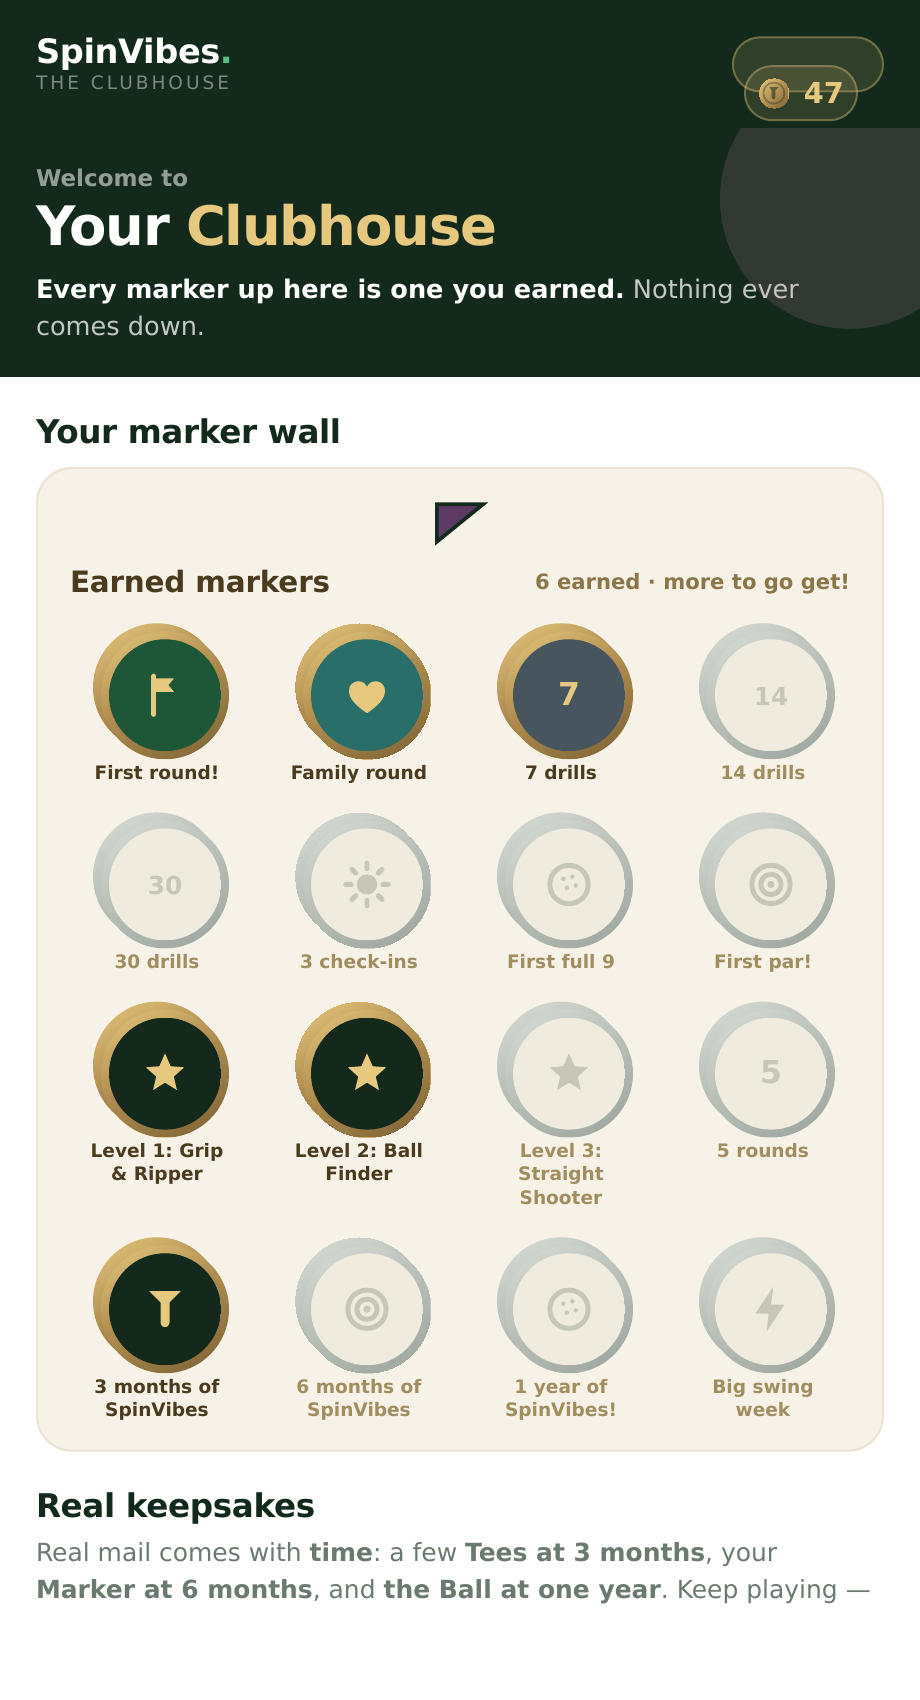
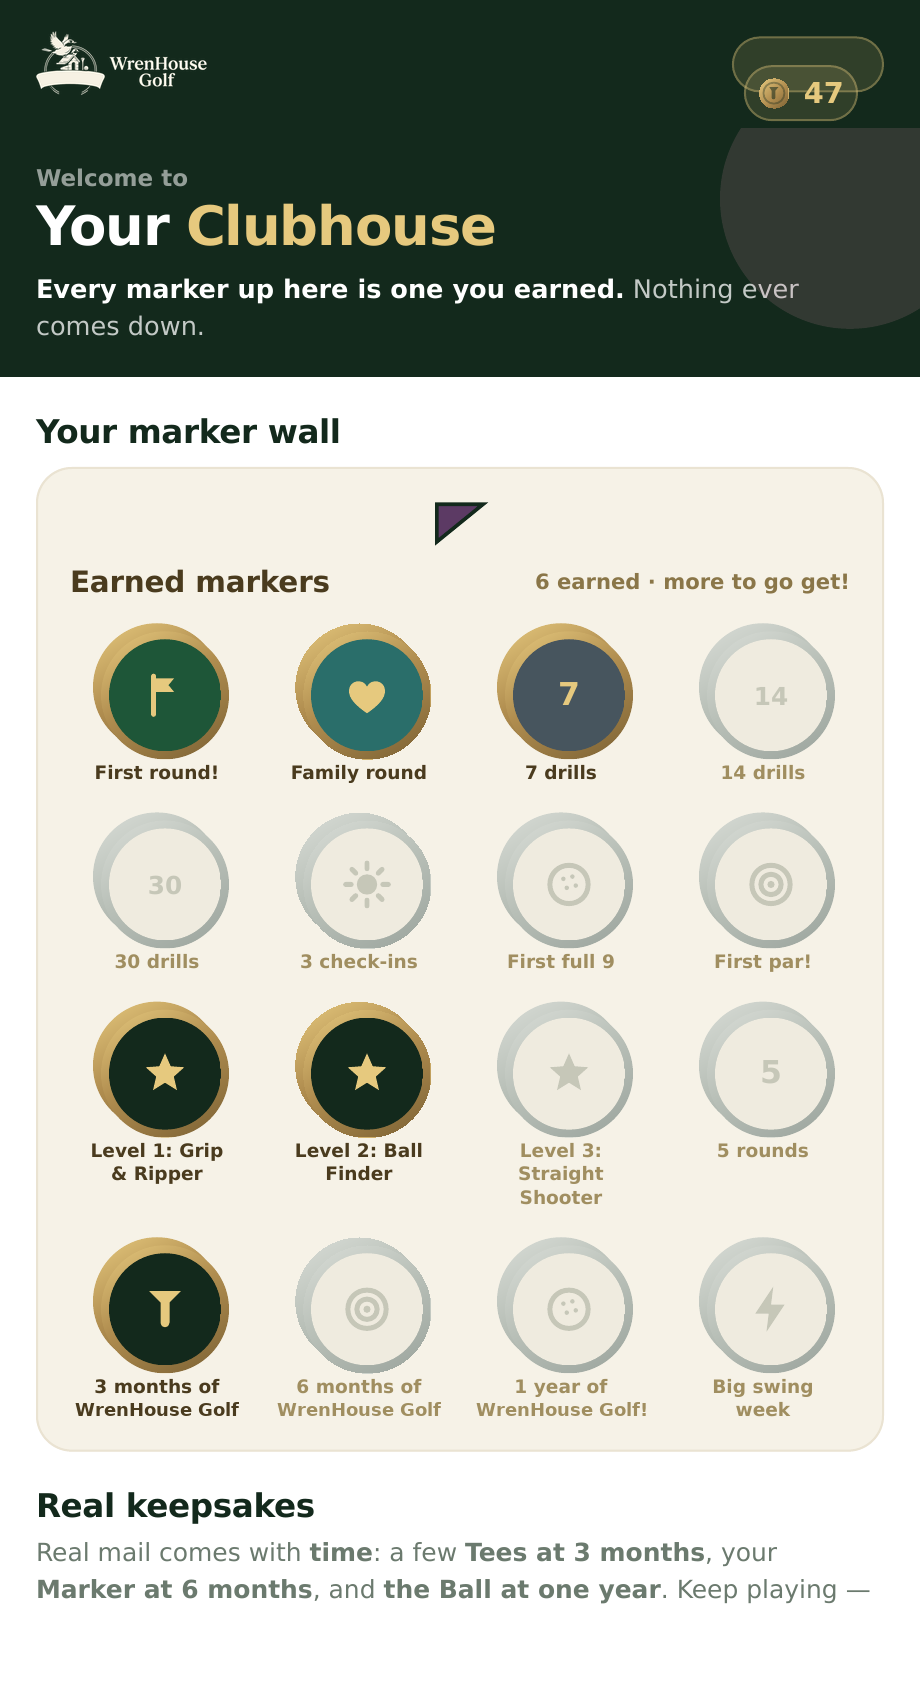
Update PWA 2026-09-28 14:57

diff --git a/index.html b/index.html
@@ -3,14 +3,16 @@
 <head>
 <meta charset="UTF-8">
 <meta name="viewport" content="width=device-width, initial-scale=1.0">
-<title>SpinVibes — the family golf app</title>
+<title>WrenHouse Golf — the family golf app</title>
 <meta name="description" content="One golf app the whole family grows in, each on their own plan. Kids get a game they beg to play; you get round tracking, a handicap, and an AI caddie in your pocket.">
 <meta name="theme-color" content="#12271A">
-<meta property="og:title" content="SpinVibes — the family golf app">
+<meta property="og:title" content="WrenHouse Golf — the family golf app">
 <meta property="og:description" content="One golf app the whole family grows in, each on their own plan.">
 <meta property="og:type" content="website">
 <meta property="og:url" content="https://spinvibes.com">
-<link rel="icon" href="spinvibes_profile.svg">
+<link rel="icon" type="image/png" sizes="32x32" href="assets/brand/favicon-32.png">
+<link rel="icon" type="image/png" sizes="192x192" href="assets/brand/favicon-192.png">
+<link rel="apple-touch-icon" href="assets/brand/apple-touch-icon.png">
 <link rel="preconnect" href="https://fonts.googleapis.com">
 <link rel="preconnect" href="https://fonts.gstatic.com" crossorigin>
 <link rel="stylesheet" href="https://fonts.googleapis.com/css2?family=Archivo:wght@400;500;600;700;800;900&family=Fraunces:opsz,wght@9..144,400;9..144,600;9..144,700&display=swap">
@@ -41,7 +43,7 @@
   .topnav{position:sticky;top:0;z-index:30;background:rgba(244,239,227,0.92);backdrop-filter:blur(8px);border-bottom:1px solid var(--line);}
   .topnav .row{display:flex;align-items:center;justify-content:space-between;padding:13px 0;}
   .brand{font-weight:800;letter-spacing:0.5px;font-size:1.15rem;color:var(--ink);display:flex;align-items:center;gap:8px;}
-  .brand .mk{width:9px;height:9px;border-radius:50%;background:var(--brass);box-shadow:0 0 0 3px rgba(166,130,60,0.18);}
+  .brand .wordmark{display:block;height:56px;width:auto;}
   .nav-open{border:1px solid var(--ink);border-radius:30px;padding:8px 17px;font-size:0.82rem;font-weight:600;color:var(--ink);text-decoration:none;}
   .nav-open:hover{background:var(--ink);color:var(--paper);}
 
@@ -212,7 +214,7 @@
 <body>
 
   <nav class="topnav"><div class="wrap row">
-    <div class="brand"><span class="mk"></span>SpinVibes</div>
+    <div class="brand"><img class="wordmark" src="assets/brand/wordmark-nav.png" alt="WrenHouse Golf" width="149" height="56"></div>
     <a class="nav-open" href="https://app.spinvibes.com">Open app</a>
   </div></nav>
 
@@ -227,7 +229,7 @@
     <div class="hero-right">
       <div class="phone"><div class="screen">
         <div class="m-top">
-          <div><div class="m-brand">SpinVibes</div><div class="m-user">JEREMY</div></div>
+          <div><div class="m-brand">WrenHouse Golf</div><div class="m-user">JEREMY</div></div>
           <div class="m-icons"><div class="m-ic"><i class="ti ti-settings"></i></div><div class="m-ic"><i class="ti ti-user"></i></div><div class="m-ic"><i class="ti ti-sun"></i></div></div>
         </div>
         <div class="m-pills">
@@ -304,11 +306,11 @@
     <div class="sub-h">Their Clubhouse, a wall of markers they earned</div>
     <div class="shots">
       <div class="shot">
-        <div class="frame"><img src="assets/kid/clubhouse.png" alt="A kid's SpinVibes Clubhouse: a wall of earned markers" loading="lazy"></div>
+        <div class="frame"><img src="assets/kid/clubhouse.png" alt="A kid's WrenHouse Golf Clubhouse: a wall of earned markers" loading="lazy"></div>
         <div class="cap">Every marker is one they earned</div>
       </div>
       <div class="shot">
-        <div class="frame"><img src="assets/kid/reveal.png" alt="Earning a First Par marker in SpinVibes" loading="lazy"></div>
+        <div class="frame"><img src="assets/kid/reveal.png" alt="Earning a First Par marker in WrenHouse Golf" loading="lazy"></div>
         <div class="cap">"That was all you." Up on the wall it goes</div>
       </div>
     </div>
@@ -391,7 +393,7 @@
   <section class="band"><div class="wrap">
     <div class="kicker">Coming soon · off the screen</div>
     <h2 class="t serif">Real keepsakes, and a card for every game.</h2>
-    <p class="lede">The wins leave the screen. Stick with SpinVibes and real keepsakes arrive in the mail, earned by showing up, not by spending, and a grown-up approves every one. Plus a designed, collectible scorecard for every family game you play.</p>
+    <p class="lede">The wins leave the screen. Stick with WrenHouse Golf and real keepsakes arrive in the mail, earned by showing up, not by spending, and a grown-up approves every one. Plus a designed, collectible scorecard for every family game you play.</p>
 
     <div class="renders">
       <div class="render">
@@ -491,7 +493,7 @@
 
   <footer>
     Already built your plan? <a href="https://app.spinvibes.com">Open the app →</a><br><br>
-    SpinVibes · the family golf app · <a href="https://golf.spinvibes.com">golf.spinvibes.com</a>
+    WrenHouse Golf · the family golf app · <a href="https://golf.spinvibes.com">golf.spinvibes.com</a>
   </footer>
 
   <script>
